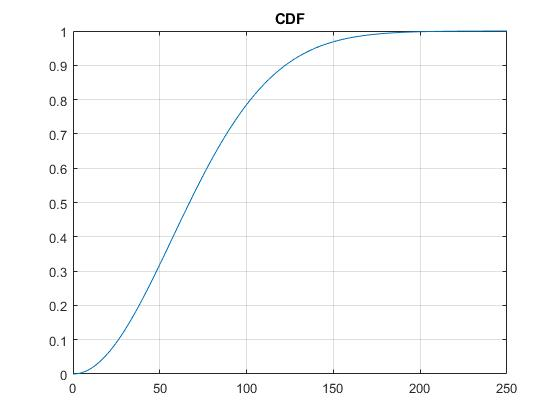
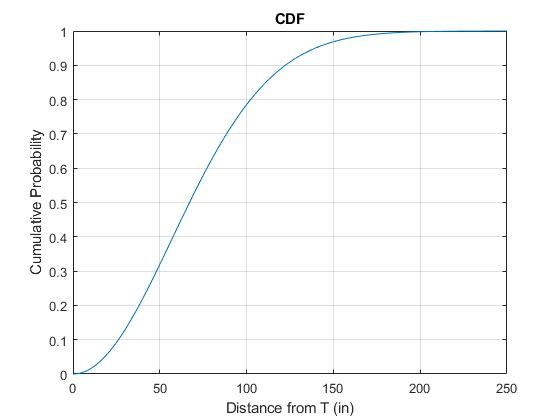
Updated images and plotting

Changed region(s): [[0.0607, 0.3095, 0.0911, 0.65], [0.3946, 0.9595, 0.6375, 0.9905]]

diff --git a/apma3100_proj3_part4.m b/apma3100_proj3_part4.m
@@ -101,10 +101,17 @@ end
     nvec = ones(size(this_sample_means))*n(i);
     scatter(nvec,this_sample_means);
  end
- axis([9 1100 50 100])
+ axis([9 1100 40 110])
  xticks(n);
  xlabel("Sample size (n)");
- ylabel("Sample Average");
+ ylabel("Sample Average (in)");
+ title("Sample Mean Estimations")
+ % Real mean calculated per Rayleigh mean - 1/a*sqrt(pi/2)
+ real_mean = 71.4389;
+ 
+ plot([1 1200], [71.4389 71.4389],'k--')
+ text(110, 69, "Real \mu")
+ 
  hold off
 
 function oldSeed = reportLastSeed()

diff --git a/Part3.m b/Part3.m
@@ -8,10 +8,14 @@ F_ = F(x);
 figure(1)
 plot(x,f_);
 title("PDF")
+xlabel("Distance from T (in)")
+ylabel("Probability")
 grid on
 figure(2)
 plot(x,F_);
 title("CDF")
+xlabel("Distance from T (in)")
+ylabel("Cumulative Probability")
 grid on
 
 p = [0.5 0.7 0.9];
